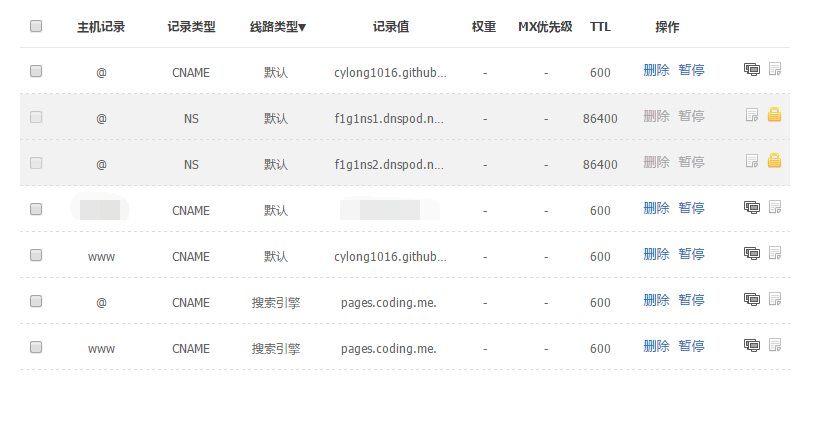
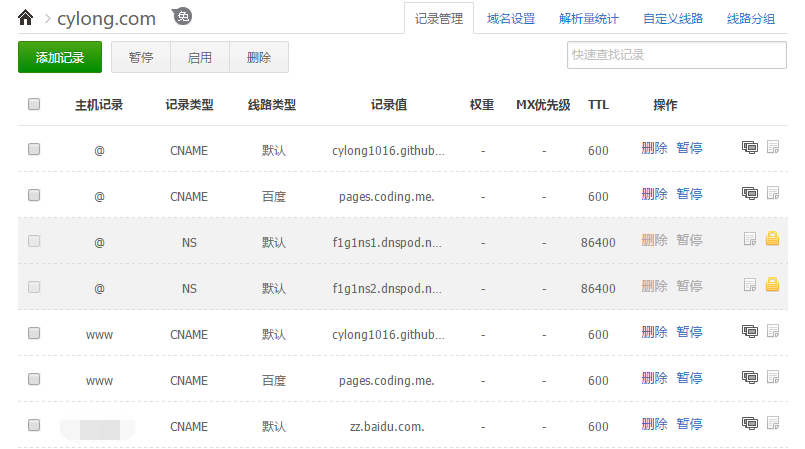
完善文章：解决 Github Pages 禁止百度爬虫抓取的问题

diff --git a/source/_posts/2016-05-22-github-baidu-spider-exception.md b/source/_posts/2016-05-22-github-baidu-spider-exception.md
@@ -8,6 +8,7 @@ tags:
   - hexo
   - 爬虫
 date: 2016-05-22 16:24:44
+updated: 2017-04-12 22:38:23
 ---
 ---
 
@@ -42,7 +43,7 @@ date: 2016-05-22 16:24:44
 ![DNS 解析记录 - 万网](dns-parse.png)
 DNSPod 设置：
 ![DNS 解析记录 - DNSPod](dns-parse-dnspod.png)
-注意：我的域名在万网购买的，默认使用的是万网的 DNS，设置成百度后开始是好用的，后来就又抓取不到了（╯－＿－）╯╧╧。 于是我就换成了 [DNSPod][6] 的服务，把线路类型设置成搜索引擎或者国内都可以。
+注意：我的域名在万网购买的，默认使用的是万网的 DNS，设置成百度后开始是好用的，后来就又抓取不到了（╯－＿－）╯╧╧。 于是我就换成了 [DNSPod][6] 的服务，把线路类型设置成百度、搜索引擎或者国内都可以。如果设置成搜索引擎的话注意 Google 也会去 Coding.net 抓取页面。设置成国内的话，国内的其他用户访问也访问的是 Coding.net 中的页面，相比访问 Github Pages 会更快一点。
 
 # 感谢
 
@@ -56,7 +57,7 @@ DNSPod 设置：
 > 文章链接：<a href='{{ permalink }}' title='{{ title }}' >{{ permalink }}</a>
 > 有问题或者建议欢迎在下方评论。欢迎转载、引用，但希望标明出处，感激不尽(●'◡'●)
 
-[1]: http://www.cylong.com/blog/2016/05/22/google-baidu-search/ "如何在 Google 和百度里搜索到自己的网站"
+[1]: /blog/2016/05/22/google-baidu-search/ "如何在 Google 和百度里搜索到自己的网站"
 [2]: http://zhanzhang.baidu.com/ "百度站长平台"
 [3]: http://jerryzou.com/posts/feasibility-of-allowing-baiduSpider-for-Github-Pages/ "解决 Github Pages 禁止百度爬虫的方法与可行性分析 - 咀嚼之味"
 [4]: https://coding.net "CODING"

diff --git a/README.md b/README.md
@@ -9,8 +9,8 @@
 *   [Hexo][] 提供博客框架
 *   [Next][] 提供博客主题
 *   [多说][] 提供评论系统、分享服务、最近访客等等各种服务，详情请看 [多说开发者中心][]【[已经宣布关闭][1]】
-*   [百度统计][] 提供统计功能
 *   [Disqus][] 提供评论服务
+*   [百度统计][] 提供统计功能
 *   [Google Analytics][] 提供 Google 分析
 *   [不蒜子][] 提供站点计数功能【总访问量，单页面访问量】
 
